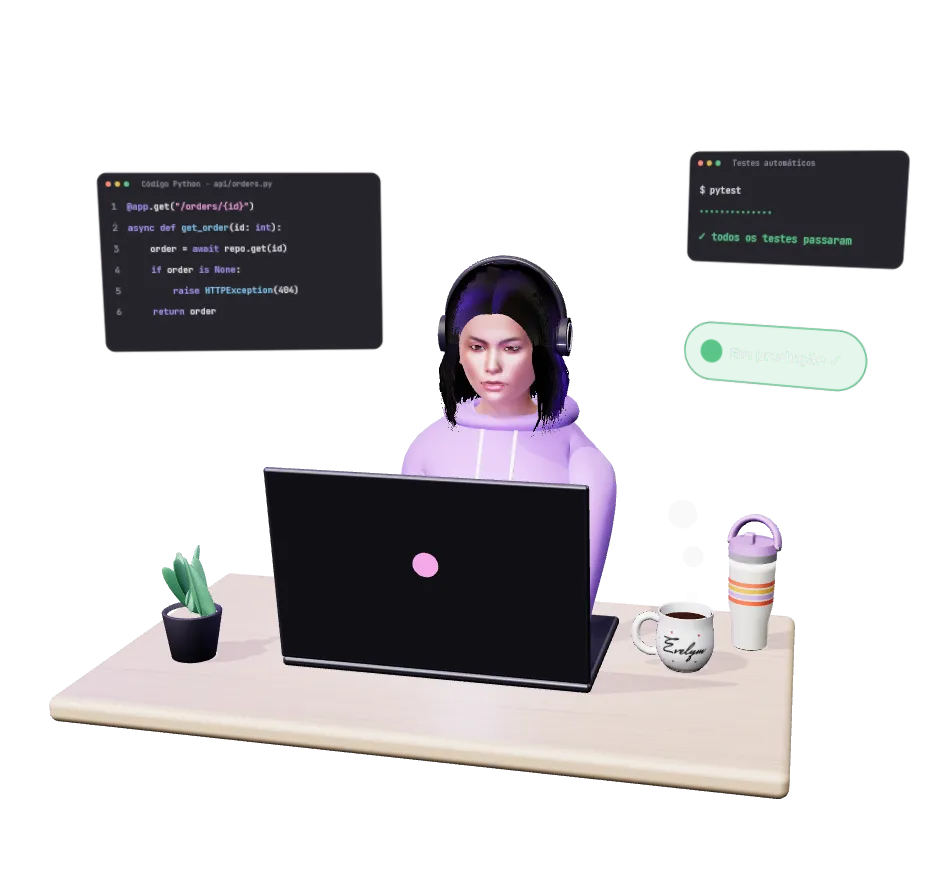
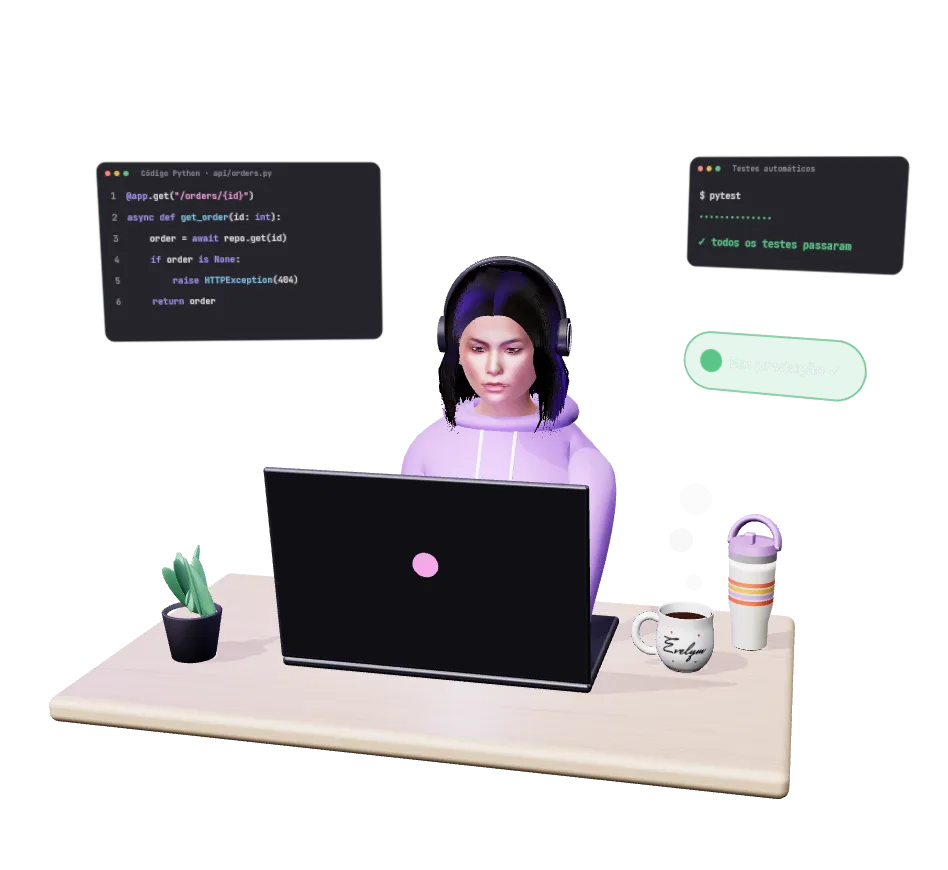
feat: faz a personagem tomar um gole de café depois do deploy

diff --git a/components/scene/hero-scene.ts b/components/scene/hero-scene.ts
@@ -93,7 +93,7 @@ const CYCLE = 24;
  * Momento da história do pôster e do primeiro quadro ao vivo: código pronto, testes passando e "Em produção". Começar
  * daqui deixa a troca imagem → cena imperceptível; depois a história recomeça sozinha.
  */
-const POSTER_T = 20;
+const POSTER_T = 23.6;
 /** Personagem gerada por scripts/personagem/ (npm run personagem; exportar.py gera o arquivo). */
 const MODEL_URL = "/models/evelym.glb";
 /** O modelo sai em metros; a cena usa uma escala maior (a mesa tem 2,15 de largura). */
@@ -716,6 +716,69 @@ export async function createHeroScene(
     qInv.copy(qParent).invert();
     b.quaternion.copy(qInv).multiply(q).multiply(qParent).multiply(rest.get(b)!);
   }
+  /* Gole de café depois do deploy (ideia da dona, 2026-11-23): o braço esquerdo, do lado da caneca, vai do teclado à
+     caneca, leva à boca e devolve, por cinemática inversa de dois ossos calculada aqui. O polo é o cotovelo da pose de
+     digitar, então o braço sai do teclado e volta para ele sem salto. Fora do gole, o braço fica na pose do modelo. */
+  const armU = bone("upperarm_l");
+  const armL = bone("lowerarm_l");
+  root.updateMatrixWorld(true);
+  const restLocalU = armU.quaternion.clone();
+  const restLocalL = armL.quaternion.clone();
+  const restWorldU = armU.getWorldQuaternion(new Quaternion());
+  const restWorldL = armL.getWorldQuaternion(new Quaternion());
+  const S0 = armU.getWorldPosition(new Vector3());
+  const E0 = armL.getWorldPosition(new Vector3());
+  const W0 = hands[0].hand.getWorldPosition(new Vector3());
+  const lenU = S0.distanceTo(E0);
+  const lenL = E0.distanceTo(W0);
+  const dirU0 = E0.clone().sub(S0).normalize();
+  const dirL0 = W0.clone().sub(E0).normalize();
+  // polo no plano do braço em repouso, empurrado para o lado do cotovelo
+  const pole = E0.clone().multiplyScalar(2).sub(S0.clone().add(W0).multiplyScalar(0.5));
+  const mugHome = mug.position.clone();
+  const grabPoint = mug.localToWorld(new Vector3(-0.115, 0.1, 0)); // a alça
+  const wristGrab = grabPoint.clone().add(new Vector3(-0.09, 0, -0.05));
+  const mugFromWrist = mug.getWorldPosition(new Vector3()).sub(wristGrab);
+  const headCenter: Object3D = centro;
+  const mouthOffset = new Vector3(0, -0.075 * MODEL_SCALE, 0.1 * MODEL_SCALE);
+  const mugAtMouth = new Vector3(0.02, -0.215, 0.12); // centro da caneca em relação à boca, com a borda nos lábios
+  const vS = new Vector3();
+  const vE = new Vector3();
+  const vW = new Vector3();
+  const vT = new Vector3();
+  const vM = new Vector3();
+  const vDir = new Vector3();
+  const vN = new Vector3();
+  const vTmp = new Vector3();
+  const vHold = new Vector3();
+  const qArm = new Quaternion();
+  const mugTurn = mug.rotation.y;
+  /** Põe o punho esquerdo em `target` (cena), com o cotovelo para o lado de `pole`. */
+  function reach(target: Vector3) {
+    armU.getWorldPosition(vS);
+    vDir.subVectors(target, vS);
+    const d = Math.min(vDir.length(), lenU + lenL - 1e-3);
+    vDir.normalize();
+    const cos = Math.min(1, Math.max(-1, (lenU * lenU + d * d - lenL * lenL) / (2 * lenU * d)));
+    vN.subVectors(pole, vS);
+    vN.addScaledVector(vDir, -vN.dot(vDir)).normalize();
+    vE.copy(vS)
+      .addScaledVector(vDir, lenU * cos)
+      .addScaledVector(vN, lenU * Math.sqrt(1 - cos * cos));
+    vW.copy(vS).addScaledVector(vDir, d);
+    qArm.setFromUnitVectors(dirU0, vTmp.subVectors(vE, vS).normalize()).multiply(restWorldU);
+    armU.parent!.getWorldQuaternion(qParent);
+    armU.quaternion.copy(qParent.invert()).multiply(qArm);
+    armU.updateMatrixWorld(true);
+    qArm.setFromUnitVectors(dirL0, vTmp.subVectors(vW, vE).normalize()).multiply(restWorldL);
+    armL.parent!.getWorldQuaternion(qParent);
+    armL.quaternion.copy(qParent.invert()).multiply(qArm);
+  }
+  const ease = (u: number, a: number, b: number) => {
+    const x = Math.min(1, Math.max(0, (u - a) / (b - a)));
+    return x * x * (3 - 2 * x);
+  };
+
   // Os fones são da cena (já aprovados), presos ao centro da cabeça, no tamanho da cabeça do modelo.
   const head = new Group();
   head.scale.setScalar(PHONES_SCALE);
@@ -940,9 +1003,9 @@ export async function createHeroScene(
           ? Math.sin(((bt - 0.3) / 0.16) * PI)
           : 0;
     for (const m of blinkers) m.morphTargetInfluences![m.morphTargetDictionary!.piscar] = blink;
-    // sorriso leve quando o deploy vai para produção (16 s); séria de novo antes do quadro do pôster (20 s)
+    // sorriso leve quando o deploy vai para produção (16 s), até ela pegar o café
     const sorrir =
-      Math.min(1, Math.max(0, (u - 16.3) / 0.6)) * Math.min(1, Math.max(0, (19.6 - u) / 0.7));
+      Math.min(1, Math.max(0, (u - 16.3) / 0.6)) * Math.min(1, Math.max(0, (17.9 - u) / 0.5));
     const smile = sorrir * sorrir * (3 - 2 * sorrir);
     for (const m of smilers) m.morphTargetInfluences![m.morphTargetDictionary!.sorriso] = smile;
     // mãos e dedos digitando (calmos quando o código termina)
@@ -954,15 +1017,59 @@ export async function createHeroScene(
         turn(f, qTurn.setFromAxisAngle(AX, curl));
       });
     });
-    // cabeça: leve aceno de concentração, acompanhando o ponteiro
+    // gole de café: pega a caneca (18 s), leva à boca, bebe (20 a 21,3 s), devolve (22,2 s) e volta ao teclado (23,2 s)
+    let held = 0;
+    let sip = 0;
+    // A caneca gira meia volta na mão enquanto sobe: a alça vira para fora, e a mão fica do lado dela, sem cruzar o rosto.
+    const spin = PI * (ease(u, 19.1, 20) - ease(u, 21.3, 22.2));
+    vHold.copy(mugFromWrist).applyAxisAngle(AY, spin);
+    if (u >= 18 && u < 23.2) {
+      headCenter
+        .getWorldPosition(vM)
+        .add(mouthOffset)
+        .add(mugAtMouth)
+        .sub(vTmp.copy(mugFromWrist).applyAxisAngle(AY, PI));
+      if (u < 18.8) vT.lerpVectors(W0, wristGrab, ease(u, 18, 18.8));
+      else if (u < 19.1) vT.copy(wristGrab);
+      else if (u < 20) vT.lerpVectors(wristGrab, vM, ease(u, 19.1, 20));
+      else if (u < 21.3) vT.copy(vM);
+      else if (u < 22.2) vT.lerpVectors(vM, wristGrab, ease(u, 21.3, 22.2));
+      else if (u < 22.4) vT.copy(wristGrab);
+      else vT.lerpVectors(wristGrab, W0, ease(u, 22.4, 23.2));
+      reach(vT);
+      held = u >= 19.1 && u < 22.2 ? 1 : 0;
+      sip = u >= 20 && u < 21.3 ? Math.sin(((u - 20) / 1.3) * PI) : 0;
+      // dedos fechados na alça
+      if (u >= 18.8 && u < 22.4)
+        for (const f of hands[0].fingers) turn(f, qTurn.setFromAxisAngle(AX, 0.9));
+    } else {
+      armU.quaternion.copy(restLocalU);
+      armL.quaternion.copy(restLocalL);
+    }
+    if (held) {
+      hands[0].hand.getWorldPosition(vTmp).add(vHold);
+      mug.position.copy(root.worldToLocal(vTmp));
+      mug.rotation.y = mugTurn + spin;
+      mug.rotation.x = -0.6 * sip; // a borda inclina para a boca
+    } else {
+      mug.position.copy(mugHome);
+      mug.rotation.y = mugTurn;
+      mug.rotation.x = 0;
+    }
+    // cabeça: leve aceno de concentração, acompanhando o ponteiro (e inclinada para trás no gole)
     ptr.x += (ptr.tx - ptr.x) * 0.06;
     ptr.y += (ptr.ty - ptr.y) * 0.06;
     qTurn.setFromAxisAngle(AY, Math.sin(t * 0.33) * 0.05 + ptr.x * 0.1);
-    turn(headBone, qTurn.multiply(qNod.setFromAxisAngle(AX, 0.06 + Math.sin(t * 0.8) * 0.02)));
+    turn(
+      headBone,
+      qTurn.multiply(qNod.setFromAxisAngle(AX, 0.06 + Math.sin(t * 0.8) * 0.02 - 0.2 * sip))
+    );
+    // o vapor some enquanto a caneca está fora da mesa
+    const steamOn = 1 - ease(u, 18.6, 19.1) + ease(u, 22.2, 22.8);
     steam.forEach((m, i) => {
       const fz = (t * 0.22 + i / 3) % 1;
       m.position.set(0.74 + Math.sin(fz * 6 + i) * 0.025, 0.2 + fz * 0.4, -0.18);
-      (m.material as MeshBasicMaterial).opacity = Math.sin(fz * PI) * steamPeak;
+      (m.material as MeshBasicMaterial).opacity = Math.sin(fz * PI) * steamPeak * steamOn;
       m.scale.setScalar(0.6 + fz * 1.2);
     });
     editor.m.position.y = 1.2 + Math.sin(t * 0.6) * 0.025;

diff --git a/openspec/changes/personagem-3d-modelada/tasks.md b/openspec/changes/personagem-3d-modelada/tasks.md
@@ -80,6 +80,10 @@ Termina com: a cena no navegador local com a personagem nova digitando, piscando
 > - sorriso animado (2026-11-23, ideia da dona): forma "sorriso" no corpo (cantos da boca, largura da boca e maçãs do
 >   rosto); ela fica séria e sorri de leve quando o selo vira "Em produção" (16 s), voltando a ficar séria antes do quadro
 >   do pôster (20 s), que segue neutro;
+> - gole de café (2026-11-23, ideia da dona): depois do deploy e do sorriso, o braço esquerdo pega a caneca (18 s), leva
+>   à boca girando a alça para fora, ela bebe inclinando a cabeça (20 a 21,3 s), devolve (22,2 s) e volta ao teclado
+>   (23,2 s), por cinemática inversa de dois ossos no código; o vapor some enquanto a caneca está na mão; o quadro do
+>   pôster passou a 23,6 s (de volta ao teclado, séria);
 > - falta: o carregamento em paralelo do modelo (4.2) e o resto do bloco 5.
 
 ## 5. Desempenho e fechamento
